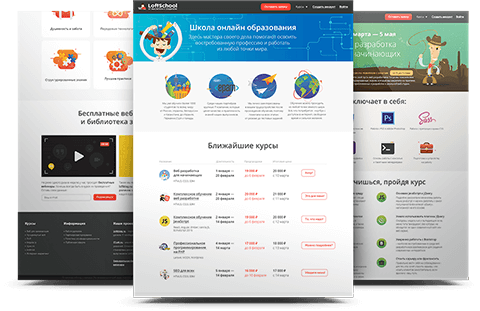
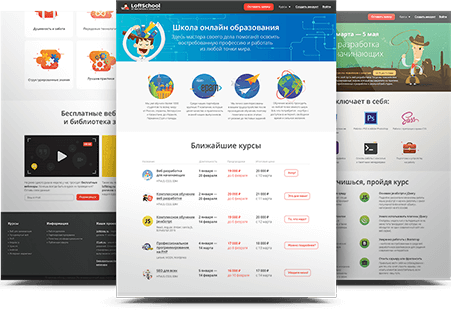
works slider

diff --git a/src/scripts/works-slider.js b/src/scripts/works-slider.js
@@ -1,0 +1,36 @@
+new Vue({
+    el:'.projects',
+    data:{
+        ul: document.querySelectorAll('.projects__item'),
+        status: 'school',
+        nextItem: 0
+    },
+    computed:{
+        allDataAttr: function (){
+            let attrList = []
+            for(let i=0; i<this.ul.length; i++){
+                let attr = this.ul[i].getAttribute('data-project')
+                attr= attr.slice(1, -1)
+                console.log(attr)
+                attrList.push(attr)                
+            }            
+            return attrList
+        }
+    },
+    methods:{        
+        nextBtnClick(){
+            this.nextItem +=1
+            if(this.nextItem === this.ul.length){ 
+                this.nextItem = 0               
+            }
+            this.status = this.allDataAttr[this.nextItem]
+        },
+        prevBtnClick(){
+            this.nextItem -=1
+            if(this.nextItem < 0){ 
+                this.nextItem = this.ul.length - 1   
+            }
+            this.status = this.allDataAttr[this.nextItem]
+        }
+    }
+});

diff --git a/src/styles/my-works/project-slider.scss b/src/styles/my-works/project-slider.scss
@@ -12,7 +12,7 @@
 .project-slider__big-bg{
     width: 450px;
     height:305px;
-    background-size: 90%;
+    background-size: contain;
     background-position: center center;
     background-repeat: no-repeat;
     align-self:center;
@@ -34,11 +34,27 @@
     height:227px;
     display:block;
     position: relative;
+    overflow:hidden;
+    border:0;
+    outline:none;
+    cursor: pointer;
+
+    &:hover{
+        .project-slider__button-arrow_down{
+            transition: .3s;
+            top:60%;
+        }
+
+        .project-slider__button-arrow_up{
+            transition: .3s;
+            top:40%;
+        }
+    }
 }
 
 .project-slider__bg{
     background-position:center;
-    background-size: cover;
+    background-size: contain;
     background-repeat: no-repeat;
     height:100%;
 }
@@ -59,11 +75,6 @@
     right:0;
     bottom:0;
     left:0;
-
-    transition: .3s;
-    &:hover{
-        background-color: transparent;
-    }
 }
 
 .project-slider__filter_prev{

diff --git a/src/scripts/index-panel.js b/src/scripts/index-panel.js
@@ -2,12 +2,15 @@ const authBtn = document.querySelector('.index-section__auth-btn');
 const indexBtn = document.querySelector('.index-panel__btn_index');
 const indexCenter = document.querySelector('.index-section__center');
 
-authBtn.addEventListener('click', ()=>{
-    authBtn.classList.add('visually-hidden');
-    indexCenter.classList.add('flipper');
-});
 
-indexBtn.addEventListener('click', ()=>{
-    authBtn.classList.remove('visually-hidden');
-    indexCenter.classList.remove('flipper');
-});
+if (authBtn !== null){
+    authBtn.addEventListener('click', ()=>{
+        authBtn.classList.add('visually-hidden');
+        indexCenter.classList.add('flipper');
+    });
+
+    indexBtn.addEventListener('click', ()=>{
+        authBtn.classList.remove('visually-hidden');
+        indexCenter.classList.remove('flipper');
+    });
+};

diff --git a/src/scripts/works-blur.js b/src/scripts/works-blur.js
@@ -1,6 +1,6 @@
-
 const blur = document.getElementById('works-last-section__blur');
 const text = document.getElementById('works-last-section__form');
+const winObj = window;
 
 function positionSearch() { 
     let topIndent = text.offsetTop;
@@ -11,6 +11,6 @@ function positionSearch() {
 };
 
 if (text != null) {
-    positionSearch()
-    window.addEventListener('resize', ()=>positionSearch() );
+    positionSearch();
+    winObj.addEventListener('resize', ()=>positionSearch() );
 };

diff --git a/src/scripts/index-parallax.js b/src/scripts/index-parallax.js
@@ -19,4 +19,6 @@ const moveLayers = e =>{
     };
 }
 
-window.addEventListener('mousemove', moveLayers);
+if (indexParallaxLayers !== null){
+    window.addEventListener('mousemove', moveLayers);
+};

diff --git a/src/scripts/first-parallax.js b/src/scripts/first-parallax.js
@@ -20,4 +20,6 @@ const moveLayers = e =>{
     };
 };
 
-window.addEventListener('scroll', moveLayers);
+if (firstParallaxLayers !== null){
+    window.addEventListener('scroll', moveLayers);
+};

diff --git a/src/styles/index/index.scss b/src/styles/index/index.scss
@@ -46,8 +46,6 @@
     
 }
 
-
-
 .flipper{
     .index-panel_first{
         transform: translate(-50%, -50%) rotateY(180deg);
